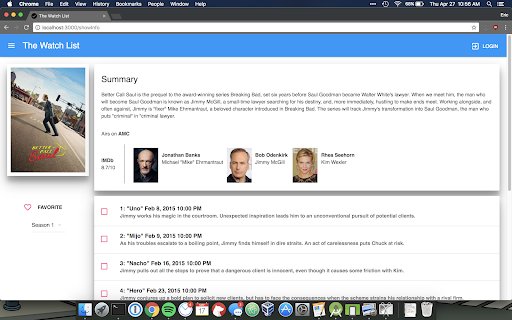
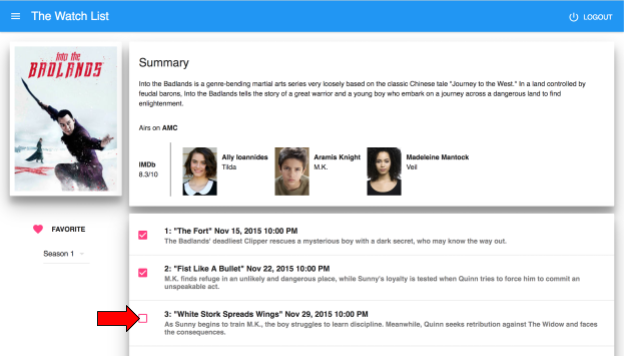
added new watchlist images and tvmazeapi link

diff --git a/watchlist.html b/watchlist.html
@@ -49,7 +49,6 @@
 
 
 
-
     <body>
       <!-- info -->
         <div class="container-fluid padding">
@@ -58,7 +57,13 @@
               <h2 class="display-4">The Watch List</h2>
       </div>
       <div class="col-12">
-        <p class="lead">The Watch List is a TV show tracking web app I helped designed and worked on for my senior project group. It aims to help users track all their favorite TV shows from various platforms.  </p>
+        <p class="lead">The Watch List is a TV show tracking web app I helped designed and worked on for my senior project group. It aims to help users track all their favorite TV shows from various platforms. The Watchlist grabs data from the TVMazeAPI </p>
+        <div clss="col=6">
+          <h2>Relevant Links:</h2>
+      <a href="http://www.tvmaze.com/api"> TVMazeAPI</a>
+
+      </div>
+
       </div>
       </div>
       </div>
@@ -71,10 +76,20 @@
           <img src="images/watchlist/homepage.png" class="img-responsive" style="width:100%" class="image">
         </div>
         <div class="col-lg-4">
+        <img src="images/watchlist/menu.png" class="img-responsive" style="width:100%" calss="image">
+      </div>
+        <div class="col-lg-4">
           <img src="images/watchlist/search.png" class="img-responsive" style="width:100%" class="image">
         </div>
           <div class="col-lg-4">
           <img src="images/watchlist/info.png" class="img-responsive" style="width:100%" calss="image">
+        </div>
+          <div class="col-lg-4">
+          <img src="images/watchlist/favorites.png" class="img-responsive" style="width:100%" calss="image">
+        </div>
+
+          <div class="col-lg-4">
+          <img src="images/watchlist/calendar.png" class="img-responsive" style="width:100%" calss="image">
         </div>
         </div>
 
